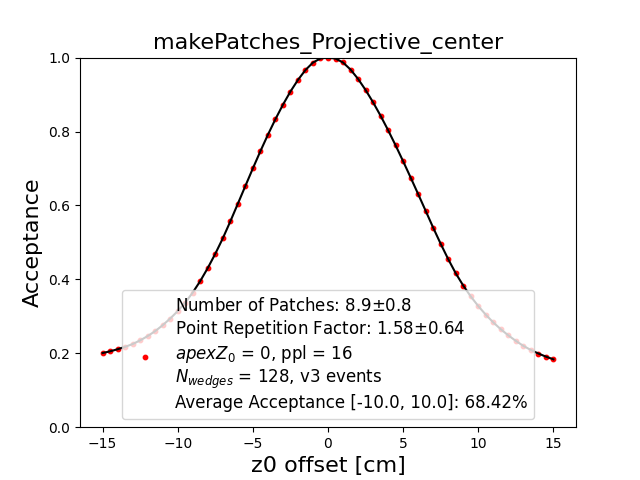
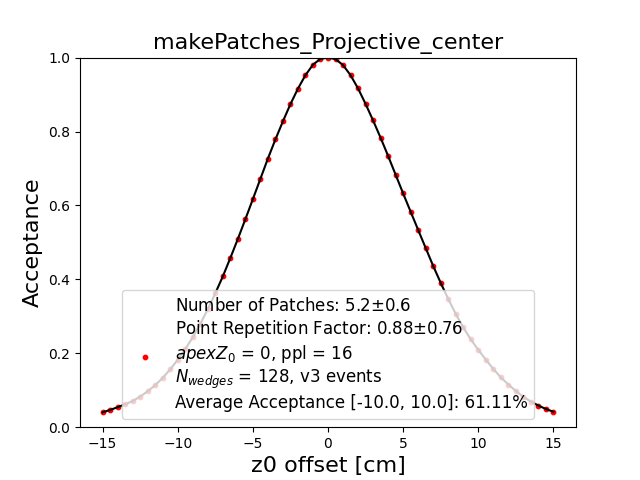
new testing code

diff --git a/python/src/testers/test.py b/python/src/testers/test.py
@@ -5,7 +5,7 @@ from src.coverers.wedgecover import *
 import numpy as np 
 import matplotlib.pyplot as plt 
 
-def wedge_test(lining:str = "makePatches_Projective", apexZ0 = 0, z0 = np.arange(-15, 15.5, 0.5), ppl = 16, z0_luminousRegion = 15., wedges = [0, 128], lines=1000, v = 'v3', z0_cutoff = 100., accept_cutoff = 10., uniform_N_points = False, savefig=False):
+def wedge_test(lining:str = "makePatches_Projective", apexZ0 = 0, z0 = np.arange(-15, 15.5, 0.5), ppl = 16, z0_luminousRegion = 15., wedges = [0, 128], lines=1000, v = 'v3', z0_cutoff = 100, accept_cutoff = 10., uniform_N_points = False, savefig=False):
     """Creates acceptance vs z0 plot
     
     Args:
@@ -107,7 +107,7 @@ def wedge_test(lining:str = "makePatches_Projective", apexZ0 = 0, z0 = np.arange
             at = len(apexZ0)
         except:
             at = 0
-        plt.savefig(f"Figures/wedge_test({lining}_{data_string}_{at}_ppl{ppl})")
+        plt.savefig(f"Figures/wedge_test({lining}_{data_string}_{at}_ppl{ppl}_z0{z0_cutoff})")
     plt.show()
 
 def unaccepted_lines(apexZ0:list = [-10, 0, 10], wedge_number = 0, line_origin:list = [-5, 5], accepted = False, unaccepted = True, v = 'v3', z0_cutoff = 100., uniform_points = False):
@@ -190,7 +190,7 @@ def unaccepted_lines(apexZ0:list = [-10, 0, 10], wedge_number = 0, line_origin:l
     plt.title(datastring, fontsize = 20)
     plt.show()
 
-def minimal_cover_binary_search(lining:str = "makePatches_Projective", accept = 0.999, start = 'odd', ppl = 16, wedges = 128, v = 'v3', savefig = False):
+def minimal_cover_binary_search(lining:str = "makePatches_Projective", accept = 0.999, start = 'odd', ppl = 16, wedges = 128, z_5 = 100., v = 'v3', savefig = False):
     if start == 'odd':
         apexZ0 = [0]
         real_solve = [0]
@@ -200,12 +200,15 @@ def minimal_cover_binary_search(lining:str = "makePatches_Projective", accept = 
     reached = False
     z0 = np.arange(-15, 15.5, 0.5)
     lines = 1000
-    left_index = 0
-    right_index = int(len(z0)-1)
-    last_left = int(len(z0)/2)
-    last_right = int(len(z0)/2 + 1)
+    left_floor = 0
+    left_ceiling = int(len(z0)/2)
+    right_floor = int(len(z0)/2 + 1)
+    right_ceiling = int(len(z0))
+    current_tries_left = []
+    current_tries_right = []
+    left_middle = left_floor
+    right_middle = right_ceiling
     data_string = f"{v} events"
-
     while reached == False:
         mean_list = np.zeros((len(z0), wedges))
         num_covers = []
@@ -213,8 +216,9 @@ def minimal_cover_binary_search(lining:str = "makePatches_Projective", accept = 
         file = f'data/wedgeData_{v}_128.txt'
         all_data = readFile(file, wedges)
 
-        for ik, k in enumerate(np.arange(wedges[0], wedges[1])):
+        for k in range(wedges):
             env, points = all_data[k] 
+            env = Environment(top_layer_lim=z_5)
             data = DataSet(env)
             data.importData(points)
             #add the 0.1 cm points
@@ -224,7 +228,7 @@ def minimal_cover_binary_search(lining:str = "makePatches_Projective", accept = 
             cover.solve(apexZ0 = apexZ0, lining=lining, ppl = ppl, show = False)
             num_covers.append(cover.n_patches)
             out = [] 
-
+            x_edges = np.array(env.radii)*(env.top_layer_lim-env.beam_axis_lim)/(env.radii[-1]) + env.beam_axis_lim
             for layer in range(env.num_layers): 
                 for point in data.array[layer]: 
                     
@@ -232,8 +236,8 @@ def minimal_cover_binary_search(lining:str = "makePatches_Projective", accept = 
                     for patch in cover.patches: 
                         if patch.contains_p(point, layer): 
                             num_in += 1
-                            
-                    out.append(num_in)
+                    if (np.abs(point.z) <= x_edges[layer]) & (num_in != 0):                       
+                        out.append(num_in)
             PRF.append(out)
 
             for iz, z in enumerate(np.array(z0)):
@@ -250,32 +254,47 @@ def minimal_cover_binary_search(lining:str = "makePatches_Projective", accept = 
 
                 
                 percentage_accepted = percentage_accepted/lines
-                mean_list[iz, ik] = mean_list[iz, ik] + percentage_accepted
+                mean_list[iz, k] = mean_list[iz, k] + percentage_accepted
+
         z0_means = np.mean(mean_list, axis = 1)
         if np.all(z0_means > accept):
             break
-        if np.all(z0_means[left_index:last_left] > accept):
-            real_solve = np.append(real_solve, [z0[left_index]])
-            print('new left', z0[left_index])
-            last_left = left_index
-            left_index = -1
-        if np.all(z0_means[last_right:right_index] > accept):
-            real_solve = np.append(real_solve, [z0[right_index]])
-            print('new right', z0[right_index])
-            last_right = right_index
-            right_index = len(z0)
-        left_index +=1
-        right_index -=1
+        if np.all(z0_means[left_middle:int(len(z0)/2)+1] >= accept):
+            current_tries_left.append(left_middle)
+            left_ceiling = left_middle
+            print('yes:', z0[left_middle])
+        else:
+            left_floor = left_middle
+        if np.all(z0_means[int(len(z0)/2)+1:right_middle+1] >= accept):
+            current_tries_right.append(right_middle)
+            right_floor = right_middle
+            print('yes:', z0[right_middle])
+        else:
+            right_ceiling = right_middle
+        
+        if left_ceiling - left_floor <= 1:
+            if not np.all(z0_means[:int(len(z0)/2)] >= accept):
+                real_solve = np.append(real_solve, z0[min(current_tries_left)])
+            print("New left: ", z0[min(current_tries_left)])
+            current_tries_left = []
+            left_floor = -1
+            left_ceiling = left_middle
+        if right_ceiling - right_floor <= 1:
+            real_solve = np.append(real_solve, z0[max(current_tries_right)])
+            print("New right: ", z0[max(current_tries_right)])
+            current_tries_right = []
+            right_floor = right_middle
+            right_ceiling = int(len(z0)+1)
+
         real_solve = np.unique(real_solve)
+        left_middle = int(np.round((left_floor+left_ceiling)/2))
+        right_middle = int(np.round((right_floor+right_ceiling)/2))
         apexZ0 = np.copy(real_solve)
-
-        apexZ0 = np.append(apexZ0, z0[left_index])
-        apexZ0 = np.append(apexZ0,z0[right_index])
+        apexZ0 = np.append(apexZ0, z0[left_middle])
+        apexZ0 = np.append(apexZ0, z0[right_middle])
         apexZ0 = np.unique(apexZ0)
-        print(left_index)
-        print(right_index)
-        print(np.sort(real_solve))
-
+        print('real: ', real_solve)
+        print('next try:', apexZ0)
     ymin = accept
     mean_num = format(np.mean(num_covers), ".1f")
     std_num = format(np.std(num_covers), ".1f")
@@ -288,7 +307,8 @@ def minimal_cover_binary_search(lining:str = "makePatches_Projective", accept = 
     plt.title(f'{lining}', fontsize = 16)
     PRFm = format(np.mean(out), '.2f')
     PRFs = format(np.std(out), '.2f')
-    plt.legend([f"Number of Patches: {mean_num}" + r'$\pm$' + f"{std_num}\nPoint Repetition Factor: {PRFm}" + r'$\pm$' + f"{PRFs}\n" + r'$apexZ_0$' + f" = {apexZ0}, ppl = {ppl}\n" + r'$N_{wedges}$ ' + f"= {wedges[1]}, {data_string}\nAverage Acceptance: {np.round(np.mean(mean_list)*100, 2)}%"],
+    #plt.legend(f"Number of Patches: {mean_num}" + r'$\pm$' + f"{std_num}\nPoint Repetition Factor: {PRFm}" + r'$\pm$' + f"{PRFs}\n" + r'$apexZ_0$' + f" = {apexZ0}, ppl = {ppl}\n" + r'$N_{wedges}$ ' + f"= {wedges[1]}, {data_string}\nAverage Acceptance: {np.round(np.mean(mean_list)*100, 2)}%",
+    plt.legend([f"Number of Patches: {mean_num}" + r'$\pm$' + f"{std_num}\nPoint Repetition Factor: {PRFm}"+ r'$\pm$' + f"{PRFs}\n"+ r'$apexZ_0$' + f" = {apexZ0}"],
         loc = 8, fontsize = 12)
     if savefig == True:
         plt.savefig(f"Figures/min_cover_binary_{start}_({lining}_{data_string}_ppl{16})")

diff --git a/python/main.py b/python/main.py
@@ -10,8 +10,9 @@ import ast
 filepath = "data/wedgeData_v3_128.txt"
 f = open("data/wedgeData_v3_128.txt")
 #unaccepted_lines(apexZ0=[0, 10], line_origin=[5], wedge_number=10, z0_cutoff=50.)
-filedata = readFile(filepath, stop=1280, performance=False)
-
+#filedata = readFile(filepath, stop=1280, performance=False)
+minimal_cover_binary_search(wedges=1)
+#z099(wedges=[0,1])
 '''
 
 #filedata = readFile(filepath, stop=128, performance=False)
@@ -86,4 +87,4 @@ cov.solve('makePatches_Projective_center', leftRight=False, apexZ0 = [-10, 0, 10
 #cov.plot()
 '''
 #pointRepetitionFactor()
-pointRepetitionFactorLayer(wedges=128, z_5=50)
+#pointRepetitionFactorLayer(wedges=128, z_5=50, apexZ0=[-10,0,10])

diff --git a/python/src/coverers/line.py b/python/src/coverers/line.py
@@ -101,4 +101,3 @@ class LineGenerator():
         slopes = np.tan(angles)
         
         return [Line(self.env, self.start, slope) for slope in slopes]         
-        
